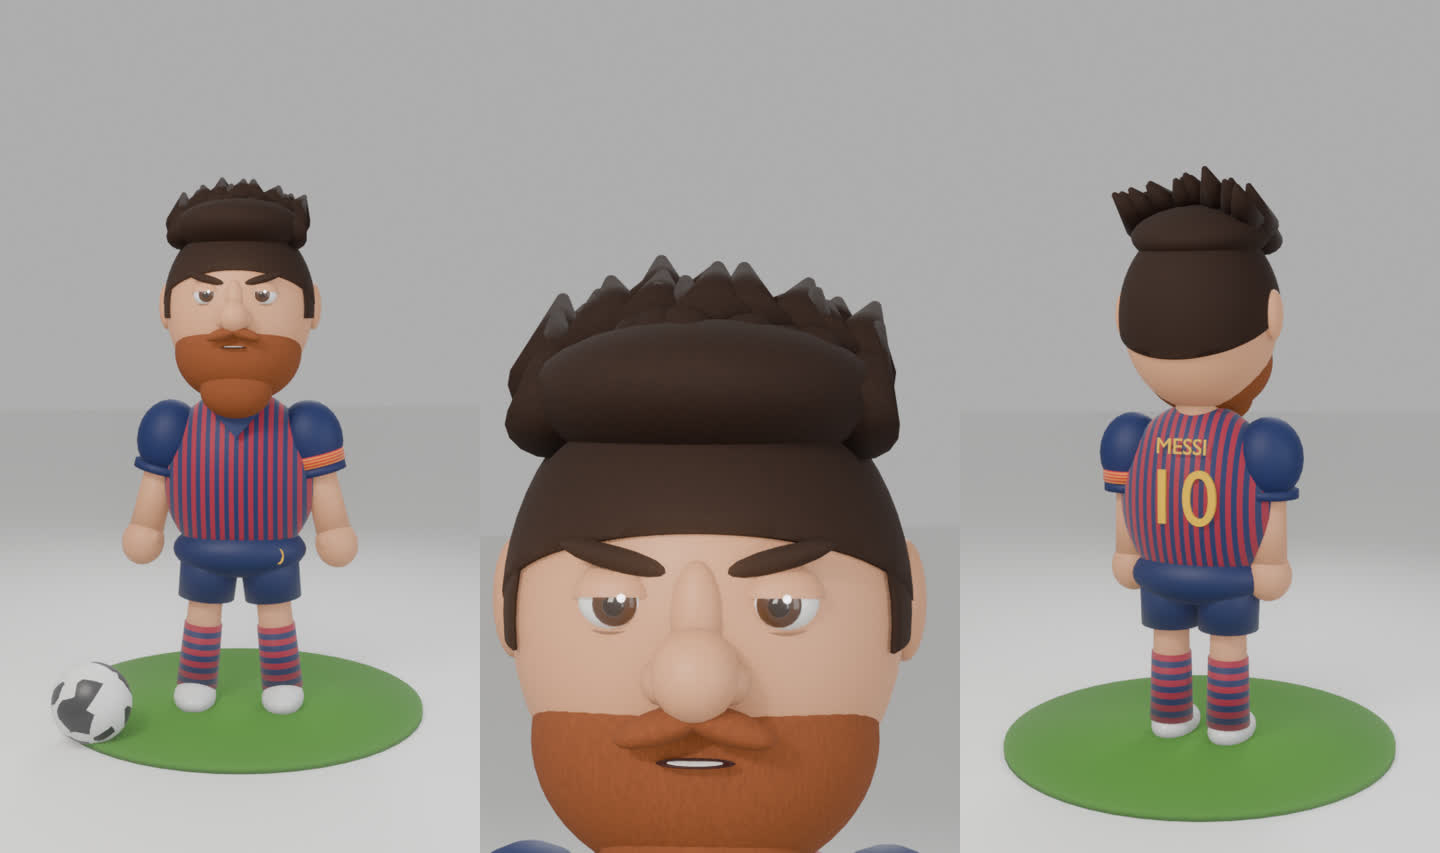
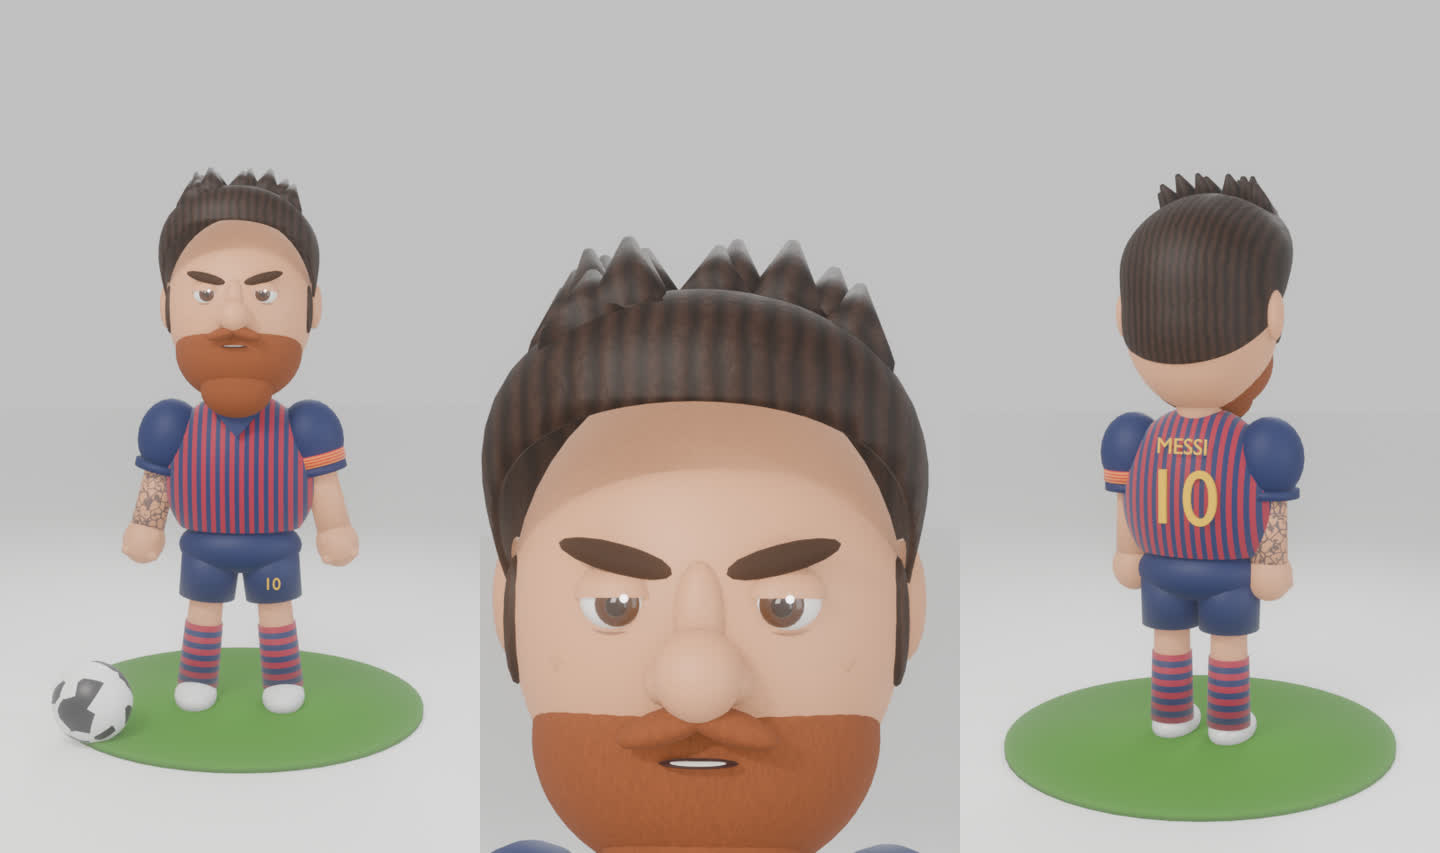
Toon footballer: sculpted combed hair with quiff tufts, tattoo sleeve, knuckles, cleaner waist
Claude-Session: https://claude.ai/code/session_01AtG1T1vEU9BAVxmr9bGWeo

diff --git a/roblox-stars/rbx/toon.py b/roblox-stars/rbx/toon.py
@@ -15,7 +15,7 @@ TOON_LOOKS = {
     "messi": dict(label="MESSI", num="10", skin="#e2a47c", hair="#2b1a12", beard="#8e4a24",
                   shirt="#1b2a5e", stripe="#a5163a", sleeve="#1b2a5e", trim="#f1bf00", shorts="#1b2a5e",
                   socks="#1b2a5e", sock_stripe="#a5163a", boots="#f2f2f2", sole="#2a6fd6", numc="#f1bf00",
-                  hairstyle="pompadour", armband="#f28c28", nose=1.15, brow_angle=-10),
+                  hairstyle="pompadour", armband="#f28c28", nose=1.15, brow_angle=-10, tattoo=True),
 }
 
 # expression -> (brow tilt deg (+ = angry, inner end down), brow lift, upper-lid close 0..1, mouth (w, h))
@@ -138,6 +138,90 @@ def cut_sphere(name, r, loc, scale, planes, m, parent, coll, seg=64, solid=0.0, 
     return ob
 
 
+def _ss(e0, e1, x):
+    t = max(0.0, min(1.0, (x - e0) / (e1 - e0)))
+    return t * t * (3 - 2 * t)
+
+
+def sculpt(name, planes, radius_fn, m, parent, coll, seg=96, rot=(0, 0, 0), loc=(0, 0, 0)):
+    """Unit sphere cut by planes (clean edges), then every vertex pushed to radius_fn(direction)."""
+    me = D.meshes.new(name)
+    bm = bmesh.new()
+    bmesh.ops.create_uvsphere(bm, u_segments=seg, v_segments=seg // 2, radius=1.0)
+    for co, no in planes:
+        bmesh.ops.bisect_plane(bm, geom=bm.verts[:] + bm.edges[:] + bm.faces[:], plane_co=co, plane_no=no,
+                               clear_outer=True)
+    for v in bm.verts:
+        d = v.co.normalized()
+        v.co = d * radius_fn(d)
+    bm.to_mesh(me); bm.free()
+    for p in me.polygons:
+        p.use_smooth = True
+    ob = D.objects.new(name, me)
+    (coll or bpy.context.scene.collection).objects.link(ob)
+    ob.parent = parent; ob.location = loc
+    ob.rotation_euler = [math.radians(a) for a in rot]
+    me.materials.append(m)
+    md = ob.modifiers.new("solid", "SOLIDIFY"); md.thickness = 0.03; md.offset = -1.0
+    return ob
+
+
+def strand_mat(name, col, scale=3.5):
+    """Combed hair: grooves running front-to-back (wave bands across X) + fine noise, with bump."""
+    m = D.materials.get(name)
+    if m:
+        return m
+    m = D.materials.new(name); m.use_nodes = True
+    N, L = m.node_tree.nodes, m.node_tree.links
+    b = next(n for n in N if n.type == "BSDF_PRINCIPLED")
+    b.inputs["Roughness"].default_value = 0.62
+    tc = N.new("ShaderNodeTexCoord")
+    wv = N.new("ShaderNodeTexWave"); wv.wave_type = "BANDS"; wv.bands_direction = "X"
+    wv.inputs["Scale"].default_value = scale; wv.inputs["Distortion"].default_value = 2.0
+    wv.inputs["Detail"].default_value = 3.0; wv.inputs["Detail Scale"].default_value = 1.5
+    L.new(tc.outputs["Object"], wv.inputs["Vector"])
+    nz = N.new("ShaderNodeTexNoise"); nz.inputs["Scale"].default_value = 25; nz.inputs["Detail"].default_value = 4
+    L.new(tc.outputs["Object"], nz.inputs["Vector"])
+    mx = N.new("ShaderNodeMath"); mx.operation = "MULTIPLY"
+    L.new(wv.outputs["Fac"], mx.inputs[0]); L.new(nz.outputs["Fac"], mx.inputs[1])
+    cr = N.new("ShaderNodeValToRGB")
+    c = hexc(col)
+    cr.color_ramp.elements[0].color = (c[0] * 0.45, c[1] * 0.45, c[2] * 0.45, 1)
+    cr.color_ramp.elements[1].position = 0.55
+    cr.color_ramp.elements[1].color = (min(1, c[0] * 1.6), min(1, c[1] * 1.6), min(1, c[2] * 1.6), 1)
+    L.new(mx.outputs[0], cr.inputs[0]); L.new(cr.outputs[0], b.inputs["Base Color"])
+    bp = N.new("ShaderNodeBump"); bp.inputs["Strength"].default_value = 0.35; bp.inputs["Distance"].default_value = 0.02
+    L.new(mx.outputs[0], bp.inputs["Height"]); L.new(bp.outputs[0], b.inputs["Normal"])
+    m.diffuse_color = (*c, 1)
+    return m
+
+
+def tattoo_mat(name, skin, ink="#3b4656"):
+    """Skin with a dense ink sleeve pattern."""
+    m = D.materials.get(name)
+    if m:
+        return m
+    m = skin_mat(name, skin).copy(); m.name = name
+    N, L = m.node_tree.nodes, m.node_tree.links
+    b = next(n for n in N if n.type == "BSDF_PRINCIPLED")
+    tc = N.new("ShaderNodeTexCoord")
+    vo = N.new("ShaderNodeTexVoronoi"); vo.feature = "DISTANCE_TO_EDGE"; vo.inputs["Scale"].default_value = 9.0
+    nz = N.new("ShaderNodeTexNoise"); nz.inputs["Scale"].default_value = 14; nz.inputs["Detail"].default_value = 5
+    L.new(tc.outputs["Object"], vo.inputs["Vector"]); L.new(tc.outputs["Object"], nz.inputs["Vector"])
+    a = N.new("ShaderNodeMath"); a.operation = "LESS_THAN"; a.inputs[1].default_value = 0.06
+    L.new(vo.outputs["Distance"], a.inputs[0])
+    b2 = N.new("ShaderNodeMath"); b2.operation = "GREATER_THAN"; b2.inputs[1].default_value = 0.58
+    L.new(nz.outputs["Fac"], b2.inputs[0])
+    mx = N.new("ShaderNodeMath"); mx.operation = "MAXIMUM"
+    L.new(a.outputs[0], mx.inputs[0]); L.new(b2.outputs[0], mx.inputs[1])
+    k = N.new("ShaderNodeMath"); k.operation = "MULTIPLY"; k.inputs[1].default_value = 0.8
+    L.new(mx.outputs[0], k.inputs[0])
+    mix = N.new("ShaderNodeMix"); mix.data_type = "RGBA"
+    mix.inputs[6].default_value = (*skin, 1); mix.inputs[7].default_value = (*hexc(ink), 1)
+    L.new(k.outputs[0], mix.inputs[0]); L.new(mix.outputs[2], b.inputs["Base Color"])
+    return m
+
+
 def spike(name, base, d, ln, r, m, parent, coll):
     d = Vector(d).normalized()
     c = cyl(name, r, ln, Vector(base) + d * (ln / 2), m, 16, parent=parent, coll=coll, r2=r * 0.15)
@@ -171,15 +255,16 @@ class Toon(chars.Char):
         self.hip = empty(n + "_hip", (0, 0, 2.0), self.root, cl)
         hip = self.hip
         # torso (jersey) + pelvis (shorts)
-        self.torso = sphere(n + "_torso", 1.0, (0, 0, 0.8), Mj, (0.92, 0.6, 1.06), parent=hip, coll=cl, seg=40)
-        sphere(n + "_pelvis", 1.0, (0, 0, -0.06), Msh, (0.8, 0.55, 0.34), parent=hip, coll=cl, seg=32)
+        self.torso = cut_sphere(n + "_torso", 1.0, (0, 0, 0.82), (0.92, 0.6, 1.0),
+                                [((0, 0, -0.62), (0, 0, -1))], Mj, hip, cl, seg=48)
+        sphere(n + "_pelvis", 1.0, (0, 0, -0.02), Msh, (0.74, 0.5, 0.34), parent=hip, coll=cl, seg=32)
         poly_extrude(n + "_vneck", [(-0.3, 0.0), (0.3, 0.0), (0.0, -0.34)], 0.04, (0, -0.53, 1.66), Msl,
                      rot=(78, 0, 0), parent=hip, coll=cl)
         text(n + "_numB", L["num"], (0, 0.6, 0.85), 0.85, mat(n + "_num", hexc(L["numc"]), 0.5),
              rot=(90, 0, 180), extrude=0.02, parent=hip, coll=cl)
         text(n + "_nameB", L["label"], (0, 0.57, 1.42), 0.24, mat(n + "_num", hexc(L["numc"]), 0.5),
              rot=(82, 0, 180), extrude=0.01, parent=hip, coll=cl)
-        text(n + "_numS", L["num"], (0.42, -0.4, -0.08), 0.26, mat(n + "_num", hexc(L["numc"]), 0.5),
+        text(n + "_numS", L["num"], (0.4, -0.375, -0.42), 0.2, mat(n + "_num", hexc(L["numc"]), 0.5),
              rot=(90, 0, 0), extrude=0.01, parent=hip, coll=cl)
         # neck
         cyl(n + "_neckm", 0.26, 0.5, (0, 0.02, 1.78), Ms, 24, parent=hip, coll=cl)
@@ -189,7 +274,11 @@ class Toon(chars.Char):
         for piv, s in ((self.shL, 1), (self.shR, -1)):
             sphere(f"{n}_slv{s}", 0.38, (0, 0, -0.18), Msl, (1, 1, 1.2), parent=piv, coll=cl, seg=24)
             cyl(f"{n}_cuff{s}", 0.33, 0.09, (0, 0, -0.56), Msl, 24, parent=piv, coll=cl)
-            cyl(f"{n}_arm{s}", 0.21, 1.0, (0, 0, -0.95), Ms, 24, parent=piv, coll=cl, r2=0.19)
+            Ma = tattoo_mat(n + "_tattoo", self.skin_c) if (s == -1 and L.get("tattoo")) else Ms
+            cyl(f"{n}_arm{s}", 0.21, 1.0, (0, 0, -0.95), Ma, 24, parent=piv, coll=cl, r2=0.19)
+            sphere(f"{n}_elbow{s}", 0.2, (0, 0.0, -0.98), Ma, parent=piv, coll=cl, seg=16)
+            for k in range(4):
+                sphere(f"{n}_knk{s}{k}", 0.075, ((k - 1.5) * 0.1, -0.2, -1.6), Ms, (1, 1, 0.9), parent=piv, coll=cl, seg=12)
             sphere(f"{n}_fist{s}", 0.27, (0, -0.02, -1.48), Ms, (0.95, 1.05, 1.05), parent=piv, coll=cl, seg=24)
             sphere(f"{n}_thumb{s}", 0.09, (-s * 0.12, -0.17, -1.4), Ms, (1, 1, 1.4), parent=piv, coll=cl, seg=12)
         if L.get("armband"):
@@ -213,7 +302,7 @@ class Toon(chars.Char):
     # ------------------------------------------------------------ head
     def _build_head(self, L):
         n, h, cl, Ms = self.name, self.head, self.coll, self.M_skin
-        sphere(n + "_skull", 0.95, (0, 0, 0), Ms, (0.9, 0.95, 1.08), parent=h, coll=cl, seg=48)
+        sphere(n + "_skull", 0.95, (0, 0, 0), Ms, (0.9, 0.95, 1.1), parent=h, coll=cl, seg=48)
         if not L.get("beard"):
             sphere(n + "_jaw", 0.7, (0, -0.25, -0.5), Ms, (1.0, 0.95, 0.8), parent=h, coll=cl, seg=32)
         for s in (-1, 1):                                   # ears
@@ -223,6 +312,8 @@ class Toon(chars.Char):
         sphere(n + "_nose", 0.17 * ns, (0, -0.98, -0.08), Ms, (0.85, 1.0, 0.9), parent=h, coll=cl, seg=24)
         for s in (-1, 1):
             sphere(f"{n}_nost{s}", 0.08 * ns, (s * 0.12, -0.92, -0.12), Ms, parent=h, coll=cl, seg=12)
+        for s in (-1, 1):                                   # cheekbones
+            sphere(f"{n}_cheek{s}", 0.2, (s * 0.42, -0.58, -0.1), Ms, (1.0, 0.7, 0.65), parent=h, coll=cl, seg=20)
         # eyes
         Mw = mat("eye_white", (0.95, 0.94, 0.92), 0.15, coat=0.6)
         Mi = mat(n + "_iris", hexc(L.get("iris", "#4a2a16")), 0.2, coat=0.8)
@@ -242,7 +333,7 @@ class Toon(chars.Char):
             self.lids.append(lid)
             lo = shell(f"{n}_lidlo{s}", 0.165, (0, 0, 0), (1.06, 1.02, 0.9), lambda co: co.z < -0.1, Ms, c, cl, 32)
             bw = empty(f"{n}_browp{s}", (s * 0.31, -0.84, 0.36), h, cl)
-            sphere(f"{n}_brow{s}", 0.16, (0, 0, 0), fuzzy_mat(n + "_browm", L["hair"], 90), (1.35, 0.35, 0.3),
+            sphere(f"{n}_brow{s}", 0.16, (0, 0, 0), fuzzy_mat(n + "_browm", L["hair"], 90), (1.45, 0.42, 0.36),
                    parent=bw, coll=cl, seg=16)
             self.brows.append(bw)
         # mouth (dark cavity + lip) sits in front of the beard
@@ -265,23 +356,34 @@ class Toon(chars.Char):
 
     def _hair(self, L):
         n, h, cl = self.name, self.head, self.coll
-        M = fuzzy_mat(n + "_hairm", L["hair"], 55)
-        cut_sphere(n + "_hairsh", 0.965, (0, 0.0, 0.0), (0.9, 0.955, 1.085),
-                   [((0, -0.95, 0.42), (0, -0.42, -0.95)),          # forehead line, dropping to the nape
-                    ((0, 0, -0.62), (0, 0, -1))], M, h, cl, solid=0.025)
-        for s in (-1, 1):                                            # temples / sideburn
-            cut_sphere(f"{n}_temple{s}", 0.962, (0, 0.0, 0.0), (0.9, 0.955, 1.085),
-                       [((0, 0, 0.5), (0, 0, 1)), ((0, 0, -0.1), (0, 0, -1)), ((s * 0.72, 0, 0), (-s, 0, 0)),
-                        ((0, -0.45, 0), (0, -1, 0))], M, h, cl, solid=0.02)
-        if L.get("hairstyle") == "pompadour":
-            sphere(n + "_pomp", 0.6, (0, -0.05, 0.9), M, (1.28, 1.42, 0.55), parent=h, coll=cl, seg=32, rot=(-8, 0, 0))
-            rnd = random.Random(5)
-            for row, (y0, z0, ln) in enumerate(((-0.62, 1.0, 0.62), (-0.35, 1.18, 0.62), (-0.05, 1.22, 0.55))):
-                for i in range(9):
-                    x = -0.62 + 1.24 * i / 8 + rnd.uniform(-0.05, 0.05)
-                    base = (x, y0 + abs(x) * 0.35, z0 - x * x * 0.5)
-                    d = (x * 0.25 + rnd.uniform(-0.1, 0.1), 0.85, 0.5 + rnd.uniform(-0.08, 0.12) + (0.15 if row == 0 else 0))
-                    spike(f"{n}_tuft{row}_{i}", base, d, ln + rnd.uniform(-0.08, 0.1), 0.2, M, h, cl)
+        M = strand_mat(n + "_hairm", L["hair"])
+        a, b, c = 0.95 * 0.9, 0.95 * 0.95, 0.95 * 1.1          # skull ellipsoid radii
+
+        def skull_r(d):
+            return 1.0 / math.sqrt((d.x / a) ** 2 + (d.y / b) ** 2 + (d.z / c) ** 2)
+
+        style = L.get("hairstyle", "pompadour")
+
+        def radius(d):
+            top = _ss(0.05, 0.85, d.z)
+            front = _ss(0.3, -0.85, d.y)
+            side = _ss(0.55, 0.9, abs(d.x)) * (1 - _ss(0.35, 0.7, d.z))
+            vol = 0.035 + (0.5 if style == "pompadour" else 0.2) * top * (0.35 + 0.65 * front)
+            quiff = 0.3 * _ss(0.35, 0.75, d.z) * _ss(-0.3, -0.85, d.y)      # forward roll at the hairline
+            return skull_r(d) + vol + quiff - 0.02 * side
+        # hairline: forehead (tilted, rising toward the front), nape, and the face/ear opening on each side
+        planes = [((0, -0.8, 0.6), (0, -0.55, -0.83)), ((0, 0, -0.55), (0, 0, -1))]
+        sculpt(n + "_hair", planes, radius, M, h, cl)
+        if style == "pompadour":                             # textured tufts on the quiff
+            rnd = random.Random(11)
+            for i in range(14):
+                el = math.radians(rnd.uniform(48, 78)); az = math.radians(rnd.uniform(-38, 38))
+                d = Vector((math.sin(az) * math.cos(el), -math.cos(az) * math.cos(el), math.sin(el)))
+                base = d * (radius(d) - 0.12)
+                out = Vector((d.x * 0.6, 0.95 + rnd.uniform(-0.1, 0.15), 0.85)).normalized()
+                spike(f"{n}_tuft{i}", base, out, rnd.uniform(0.38, 0.55), rnd.uniform(0.16, 0.21), M, h, cl)
+        for s in (-1, 1):                                    # neat sideburns down to the beard
+            sphere(f"{n}_sideb{s}", 0.14, (s * 0.8, -0.22, -0.02), M, (0.4, 1.0, 2.0), parent=h, coll=cl, seg=16)
 
     # ------------------------------------------------------------ face animation
     def face(self, t, expr="neutral", eyes=None, mouth=None):
@@ -359,8 +461,8 @@ def toon(key, t0, t1, expr="neutral", loc=(0, 0, 0), rot=0.0, **kw):
 def studio(color=(0.93, 0.93, 0.92)):
     """White cyclorama with soft key/fill/rim, like a product shot."""
     from .core import world, plane, light
-    world(color, 1.0)
-    plane("cyc_floor", 80, 80, (0, 0, 0), mat("cyc", color, 0.8))
+    world(color, 1.5)
+    plane("cyc_floor", 80, 80, (0, 0, 0), mat("cyc", (0.98, 0.98, 0.97), 0.8))
     from .core import mat as _m
     disc = cyl("grass_disc", 2.2, 0.08, (0, 0, 0.04), mat("grass_disc", hexc("#4f8f2f"), 0.9), 48)
     light("key", "AREA", (-5, -7, 9), 1400, (1, 0.96, 0.9), 5, target=(0, 0, 4))
